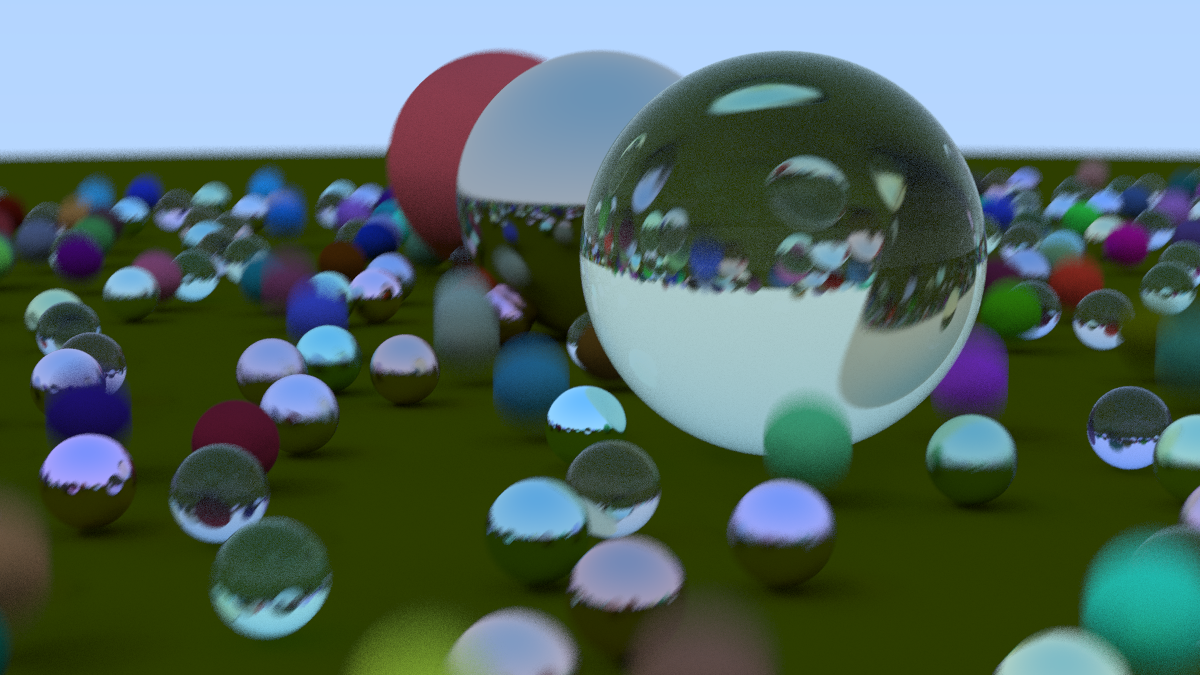
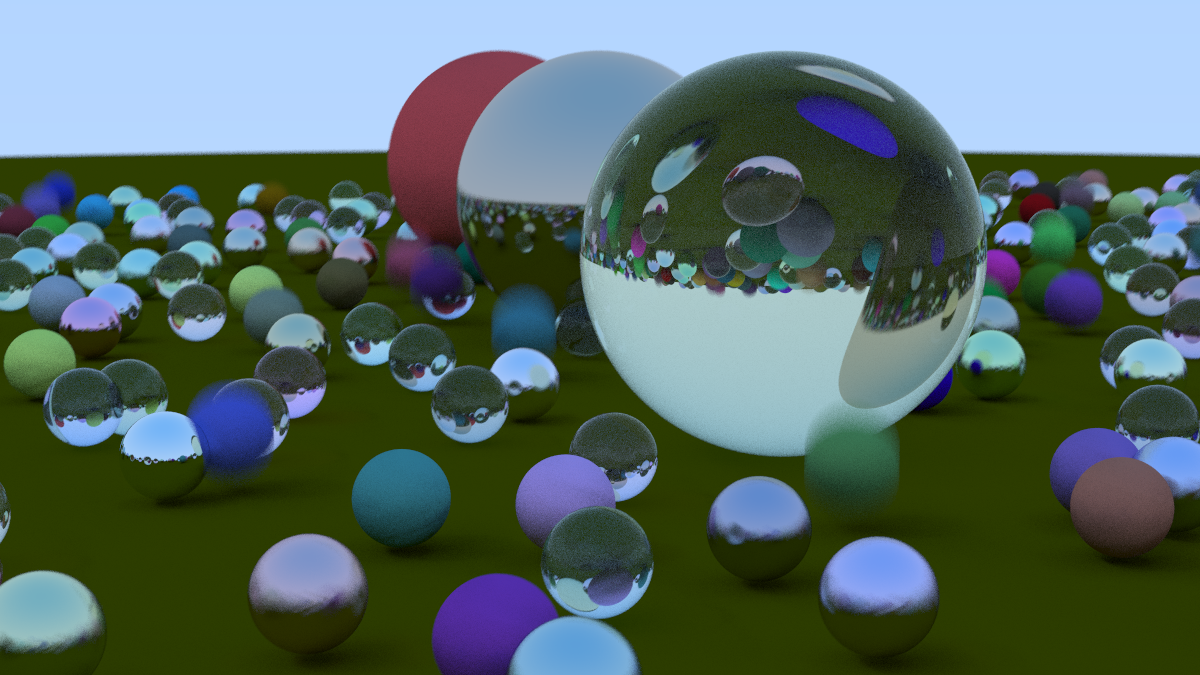
Changed DoF for final render.

diff --git a/RayTracer.cc b/RayTracer.cc
@@ -57,9 +57,14 @@ int main(int argc, char* argv[])
 
                     sphereMaterial = make_shared<Lambertian>(albedo);
 
-                    Point3 center2 = center + Vector3(0, RandomDouble(0, 0.5), 0);
-                    world.Add(make_shared<Sphere>(center, center2, 0.2, sphereMaterial));
-                    continue;
+                    double chooseBounce = RandomDouble();
+
+                    if (chooseBounce < 0.5)
+                    {
+                        Point3 center2 = center + Vector3(0, RandomDouble(0, 0.5), 0);
+                        world.Add(make_shared<Sphere>(center, center2, 0.2, sphereMaterial));
+                        continue;
+                    }
                 }
                 else if (chooseMaterial < 0.70)
                 {
@@ -99,8 +104,8 @@ int main(int argc, char* argv[])
     camera.lookAt = Point3(0, 0, 0);
     camera.vUp = Vector3(0, 1, 0);
 
-    camera.defocusAngle = 0.6;
-    camera.focusDistance = 10;
+    camera.defocusAngle = 0.2;
+    camera.focusDistance = 8;
 
     camera.Render(world);
 
